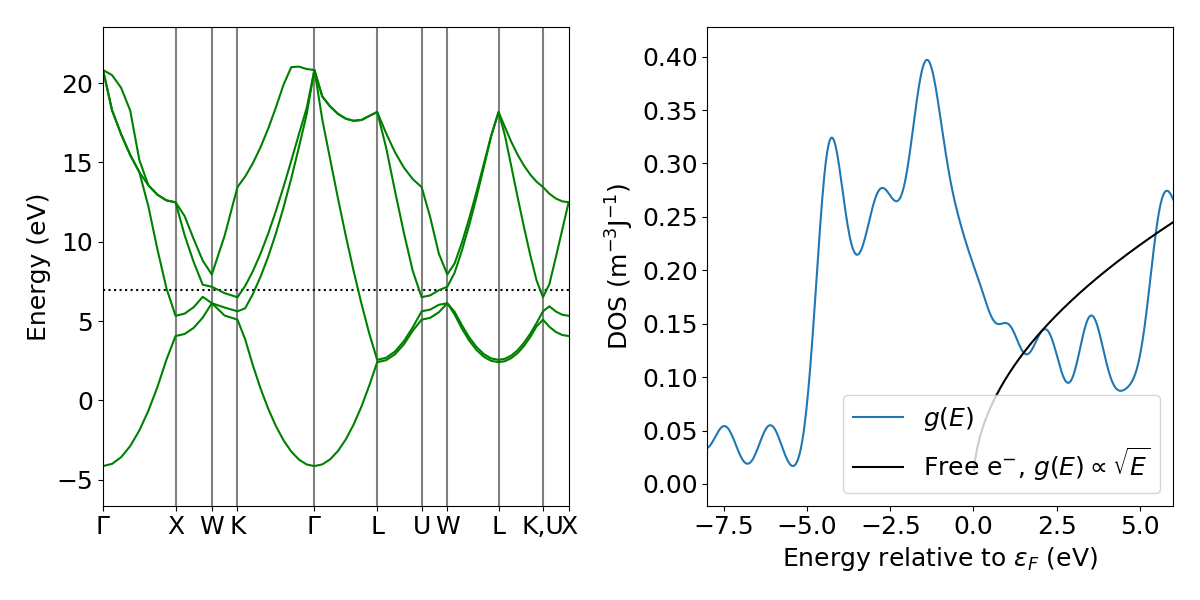
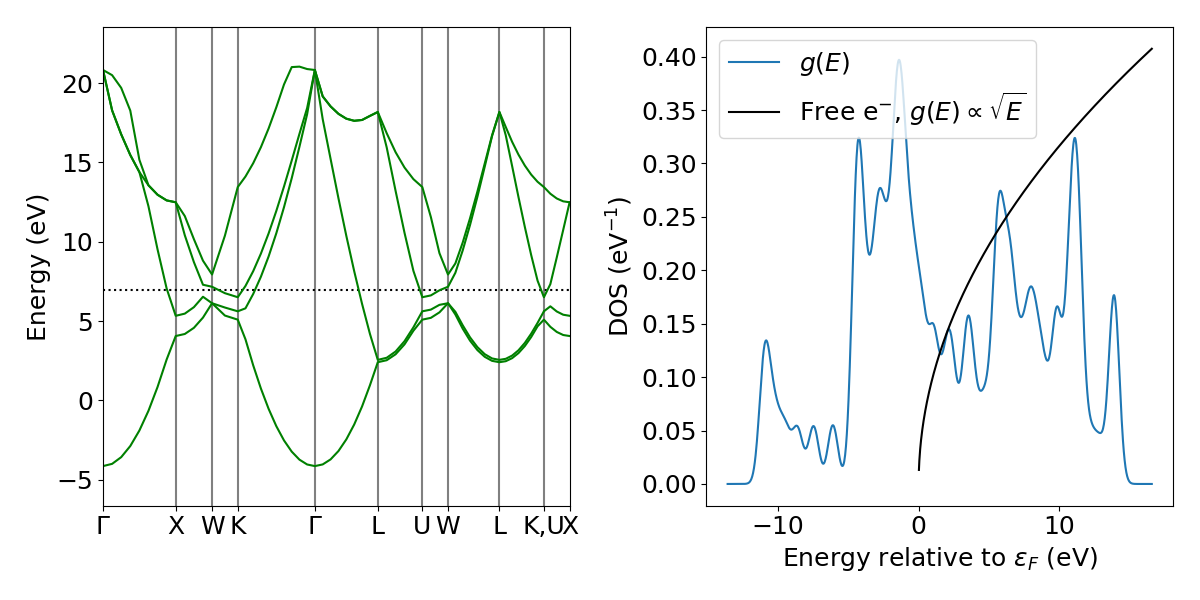
Rerun task 5 with settings from task 6

diff --git a/ComputationalMaterialsAndMolecularphysics/HW5/task5/task5.py b/ComputationalMaterialsAndMolecularphysics/HW5/task5/task5.py
@@ -33,25 +33,25 @@ for clust in allClust:
     N = len(atoms.positions)
     if(N<100):
         start = time.time()
-        if world.rank == 0:
-            print(f'Calculating EOS for Al{N}')
+        # if world.rank == 0:
+        print(f'Calculating EOS for Al{N}')
 
         # Define electron calculator (GPAW)
         calc = GPAW(
-            mode=PW(300),
+            mode=PW(200),  # Lower for computational efficiency
             txt=f'./gpaw-out/EOS_{N}.txt'
         )  # Use the same calculator as in task6
         atoms.set_calculator(calc)
         pot_e = atoms.get_potential_energy()  # Self-constistently optimize the electron density
-        if world.rank == 0:
-            print(f'Cluster Al{N} finished potential energy per atom: {pot_e / N:.2f} eV')
+        # if world.rank == 0:
+        print(f'Cluster Al{N} finished potential energy per atom: {pot_e / N:.2f} eV')
 
         # Get the electronic DOS
-        dos = DOS(calc, npts=800, width=0.5)
+        # dos = DOS(calc, npts=800, width=0.5)
         
-        e = dos.get_energies()
-        d = dos.get_dos()
-        e_f = calc.get_fermi_level()  
+        # e = dos.get_energies()
+        # d = dos.get_dos()
+        # e_f = calc.get_fermi_level()  
         # e -= e_f  # Subtract the Fermi level from the energy    
         
         ##### Get the DOS using the same method as in task6
@@ -77,10 +77,10 @@ for clust in allClust:
         pickle.dump( Edos, open( f'./dos/Edos_Al{N}.p', "wb" ) )  # Save the electronic DOS
 
         end = time.time()
-        if world.rank == 0:
-            print(f'Cluster Al{N} finished ---- Time: {(end-start):.2f} s')
-        eosDB.write(atoms, data={'energy': e, 'DOS': d, 'fermi': e_f})
-        calc.write(f'./calculators/calc{N}.gpw')  # Save the calculator
+        # if world.rank == 0:
+        print(f'Cluster Al{N} finished ---- Time: {(end-start):.2f} s')
+        # eosDB.write(atoms, data={'energy': e, 'DOS': d, 'fermi': e_f})
+        # calc.write(f'./calculators/calc{N}.gpw')  # Save the calculator
     else:
-        if world.rank == 0:
-            print(f'Skipping Al{N}')
+        # if world.rank == 0:
+        print(f'Skipping Al{N}')

diff --git a/ComputationalMaterialsAndMolecularphysics/HW5/task7/plot_task7.py b/ComputationalMaterialsAndMolecularphysics/HW5/task7/plot_task7.py
@@ -52,7 +52,7 @@ ax[0].set_ylim(lims)
 # ax[1].fill_between( d['dos'], d['e']-d['fermi'], y2=0, color='grey',
 #                    edgecolor='k', lw=1)
 ax[1].plot(d['dos'], d['e']-d['fermi'])
-ax[1].set_xlabel(r'DOS $\rm m^{-3}J^{-1}$') # TODO set proper units
+ax[1].set_xlabel(r'DOS ($\rm eV^{-1}$)') # TODO set proper units
 ax[1].set_ylabel(r'Energy relative to $\epsilon_F$ (eV)')
 ax[1].set_xticks([])
 # ax[1].set_ylim(lims)
@@ -72,7 +72,7 @@ ax[1].fill_between(dos.weights[0], dos.energy, y2=0, color='grey',
 
 ax[1].set_ylim(0, emax)
 ax[1].set_xticks([])
-ax[1].set_xlabel(r'DOS ($\rm m^{-3}J^{-1}$)') # TODO set proper units
+ax[1].set_xlabel(r'DOS ($\rm eV^{-1}$)') # TODO set proper units
 plt.savefig('phonon_task7.png')
 plt.tight_layout()
 plt.savefig('phononSi')

diff --git a/ComputationalMaterialsAndMolecularphysics/HW5/task6/plot_task6.py b/ComputationalMaterialsAndMolecularphysics/HW5/task6/plot_task6.py
@@ -65,8 +65,7 @@ freeE = 0.1*np.sqrt(ePos)  # TODO set proper scale
 ax[1].plot(ePos, freeE, color='k', label=r'Free $\rm e^{-}$, $g(E) \propto \sqrt{E}$')
 ax[1].legend(loc='best')
 # ax[1].set_xticks([])
-ax[1].set_xlim(-8,6)
-ax[1].set_ylabel(r'DOS ($\rm m^{-3}J^{-1}$)') # TODO set proper units
+ax[1].set_ylabel(r'DOS ($\rm eV^{-1}$)') # TODO set proper units
 ax[1].set_xlabel(r'Energy relative to $\epsilon_F$ (eV)')
 # ax[1].set_ylim(lims)
 plt.tight_layout()

diff --git a/ComputationalMaterialsAndMolecularphysics/HW5/task5/plot_task5.py b/ComputationalMaterialsAndMolecularphysics/HW5/task5/plot_task5.py
@@ -37,7 +37,7 @@ for i,row in enumerate(dbList):
 ax.legend(loc='upper left')
 ax.set_xlabel(r'Energy relative to $\epsilon_F$ (eV)', labelpad=15)
 ax.set_ylabel(r'Cluster size $N$', labelpad=15)
-ax.set_zlabel(r'DOS ($\rm m^{-3}J^{-1}$)', labelpad=10) # TODO set proper units
+ax.set_zlabel(r'DOS ($\rm eV^{-1}$)')', labelpad=10) # TODO set proper units
 ax.grid()
 plt.tight_layout()
 plt.savefig('dos_task5')

diff --git a/ComputationalMaterialsAndMolecularphysics/HW5/task4/task4.py b/ComputationalMaterialsAndMolecularphysics/HW5/task4/task4.py
@@ -103,7 +103,7 @@ ax[1].fill_between(dos.weights[0], dos.energy, y2=0, color='grey',
 ax[1].set_ylim(0, emax)
 ax[1].set_yticks([])
 ax[1].set_xticks([])
-ax[1].set_xlabel(r'DOS ($\rm m^{-3}J^{-1}$)') # TODO set proper units
+ax[1].set_xlabel(r'DOS ($\rm eV^{-1}$)') # TODO set proper units
 
 plt.savefig('phonon_task4.png')
 plt.tight_layout()
